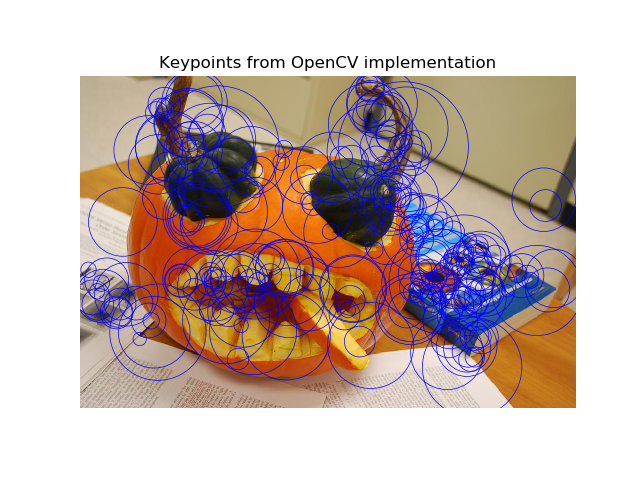
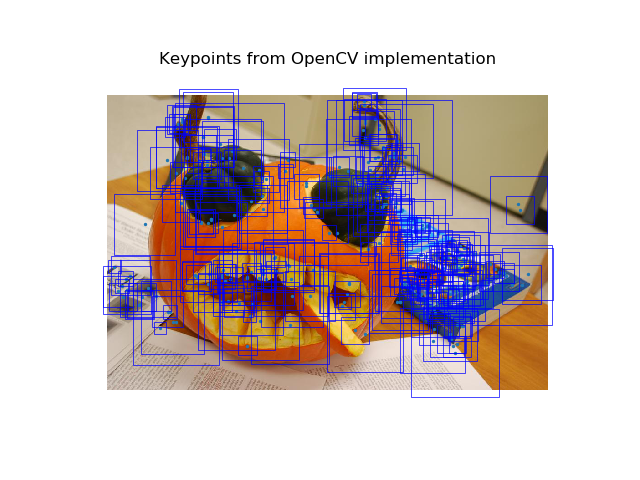
rectangles in plot and fixed size of keypoints

diff --git a/scripts/postprocessing.py b/scripts/postprocessing.py
@@ -2,6 +2,7 @@ import cv2
 import os
 import numpy as np
 from matplotlib import pyplot as plt
+import matplotlib.patches as patches
 import numpy as np
 import random
 
@@ -60,11 +61,21 @@ def draw_kp(img, kps, show=True, save_fp=None, n_max=None, title=None):
         chosen = list(range(0, len(kps)))
         random.shuffle(chosen)
         kps = [kps[i] for i in chosen[:n_max]]
-        
+    
+    xs = []
+    ys = []
     for kp in kps:
-        circle = plt.Circle(kp.pt, kp.size, color='b', fill=False, lw=0.5)
-        ax.add_artist(circle)
+        x, y = kp.pt
+        xs.append(x)
+        ys.append(y)
+        # circle = plt.Circle(kp.pt, kp.size, color='b', fill=False, lw=0.5)
+        # ax.add_artist(circle)
+
+        rect = patches.Rectangle((kp.pt[0]-kp.size, kp.pt[1]-kp.size), 2*kp.size, 2*kp.size, color='b', fill=False, lw=0.5)
+        ax.add_patch(rect)
+
     ax.imshow(img1[:,:,[2,1,0]])
+    plt.scatter(xs, ys,s=2)
     plt.axis('off')
     if title is not None:
         plt.title(title)
@@ -100,7 +111,7 @@ if __name__ == "__main__":
     kp2_our, desc2_our = our2[:,:3], our2[:,4:]
 
     draw_kp(img1,
-            [cv2.KeyPoint(x,y,size) for x,y,size in kp1_our],
+            [cv2.KeyPoint(x,y,size*10) for x,y,size in kp1_our],
             n_max=max_kp,
             title="Keypoints from our implementation",
             save_fp=os.path.join(dest,"kps_ours.png")
